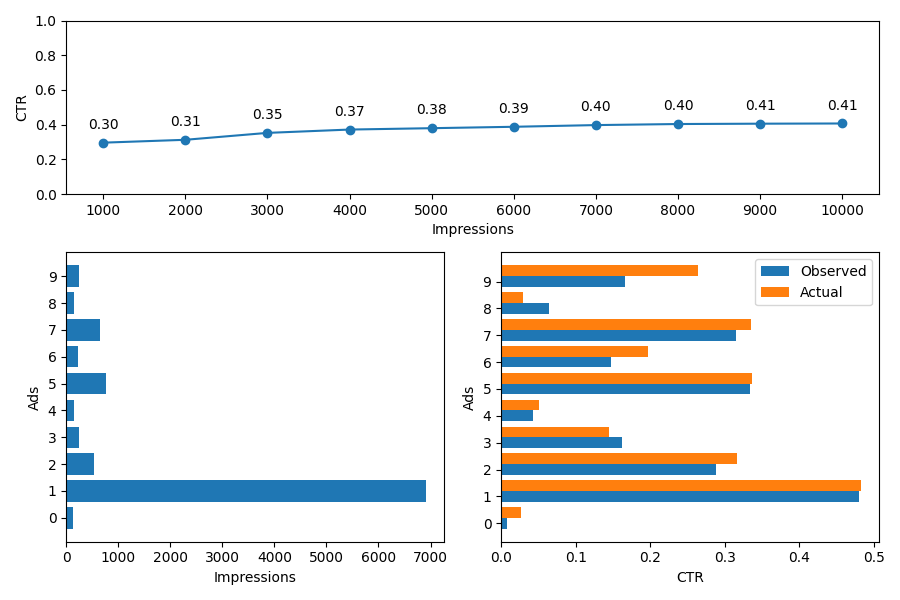
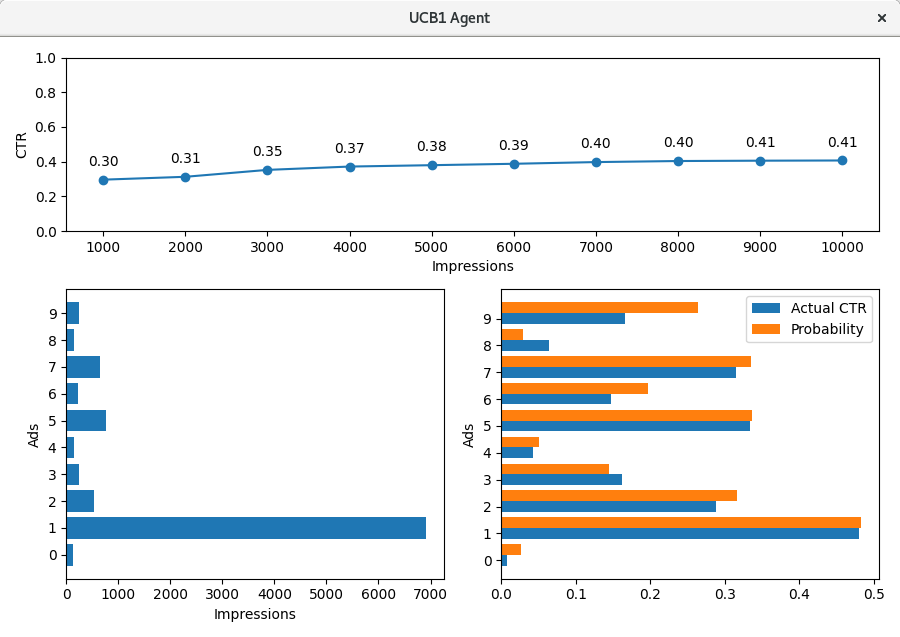
Updated README.md and screenshots

diff --git a/gym_adserver/envs/adserver.py b/gym_adserver/envs/adserver.py
@@ -31,7 +31,7 @@ class AdServerEnv(gym.Env):
 
         # Environment OpenAI metadata
         self.reward_range = (0, 1)
-        self.action_space = spaces.Discrete(num_ads) # the id of the ad
+        self.action_space = spaces.Discrete(num_ads) # index of the selected ad
         self.observation_space = spaces.Box(low=0.0, high=np.inf, shape=(2, num_ads), dtype=np.float) # clicks and impressions, for each ad
 
     def seed(self, seed=None): # pragma: no cover
@@ -105,7 +105,7 @@ class AdServerEnv(gym.Env):
         plt.xlabel("Impressions")
         plt.yticks(x_pos, x)
 
-        # Plot CTRs
+        # Plot CTRs and probabilities
         plt.subplot2grid(grid_size, (2, 1), rowspan=3, colspan=1)
         x = [ad.id for ad in ads]
         y = [ad.ctr() for ad in ads]
@@ -113,10 +113,10 @@ class AdServerEnv(gym.Env):
         x_pos = [i for i, _ in enumerate(x)]
         x_pos_2 = [i + 0.4 for i, _ in enumerate(x)]
         plt.ylabel("Ads")
-        plt.xlabel("CTR")
+        plt.xlabel("")
         plt.yticks(x_pos, x)        
-        plt.barh(x_pos, y, 0.4, label='Observed')
-        plt.barh(x_pos_2, y_2, 0.4, label='Actual')
+        plt.barh(x_pos, y, 0.4, label='Actual CTR')
+        plt.barh(x_pos_2, y_2, 0.4, label='Probability')
         plt.legend(loc='upper right')
                 
         plt.tight_layout()

diff --git a/README.md b/README.md
@@ -6,18 +6,16 @@
 
 `gym-adserver` is an [OpenAI Gym](https://github.com/openai/gym) environment for reinforcement learning-based online advertising algorithms.
 
-The `AdServer` environment implements a typical [multi-armed bandit scenario](https://en.wikipedia.org/wiki/Multi-armed_bandit) where an [ad server](https://en.wikipedia.org/wiki/Ad_serving) must select one advertisement (ad) to display in a web page.
+The `AdServer` environment implements a typical [multi-armed bandit scenario](https://en.wikipedia.org/wiki/Multi-armed_bandit) where an [ad server](https://en.wikipedia.org/wiki/Ad_serving) agent must select one advertisement (ad) to be display in a web page.
 
-Each time an ad is selected and displayed, it is counted as one [impression](https://en.wikipedia.org/wiki/Impression_(online_media)). A displayed ad can be clicked (reward = 1) or not (reward = 0), depending on the interest of the user.
-
-The ad server, and therefore the agent, must maximize the overall [click-through rate](https://en.wikipedia.org/wiki/Click-through_rate).
+Each time an ad is selected, it is counted as one [impression](https://en.wikipedia.org/wiki/Impression_(online_media)). A displayed ad can be clicked (reward = `1`) or not (reward = `0`), depending on the interest of the user The agent must maximize the overall [click-through rate](https://en.wikipedia.org/wiki/Click-through_rate).
 
 ### OpenAI Environment Attributes
 
 | Attribute | Value | Notes
 |--|--|--|
 | Action Space | Discrete(_n_) |  _n_ is the number of ads to choose from
-| Observation Space| Box(0, +inf, (2, n)) | Number of impressions and clicks for the _n_ ads
+| Observation Space| Box(0, +inf, (2, n)) | Number of impressions and clicks for each ad
 | Actions | [0...n] | Index of the selected ad
 | Rewards | 0, 1 | 1 = clicked, 0 = not clicked
 | Render Modes | 'human' | Displays the agent's performance graphically
@@ -46,21 +44,21 @@ You can test the environment by running one of the built-in agents:
 python gym_adserver/agents/ucb1_agent.py --num_ads 10 --impressions 10000
 ```
 
-The environent will generate 10 (`num_ads`) ads with different performance rates and the agent, without prior knowledge, will learn to select the most performant ads. The simulation will last 10000 iterations (`impressions`).
+The environent will generate 10 (`num_ads`) ads with different performance rates and the agent, without prior knowledge, will learn to select the most performant ones. The simulation will last 10000 iterations (`impressions`).
 
-A window will open and show the agent's performance:
+A window will open and show the agent's performance and the environment's state:
 
 ![](docs/ucb1.png)
 
-The overall CTR increases over time, since the agent learns the best actions. 
+The overall CTR increases over time as the agent learns what the best actions are.
 
-The "Actual CTR" is the probability for an ad to be clicked and it's known by the environment only. The "Observed CTR" is an estimate calculated by the agent and, with time, comes close to the actual.
+During the initialization, the environment assigns to each ad a "Probability" to be clicked. Such a probability is known by the environment only and will be used to draw the rewards during the simulation. The "Actual CTR" is the CTR actually occurred during the simulation: with time, it approximates the probability.
 
-The most performant ads will receive more impressions.
+The effective agent will give most impressions to the most performant ads.
 
 ## Built-in Agents
 
-The _gym_adserver/agents_ directory contains the agents implementing the following strategies:
+The _gym_adserver/agents_ directory contains a collection of agents implementing the following strategies:
 
 - Random
 - [epsilon-Greedy](https://en.wikipedia.org/wiki/Multi-armed_bandit#Semi-uniform_strategies)
